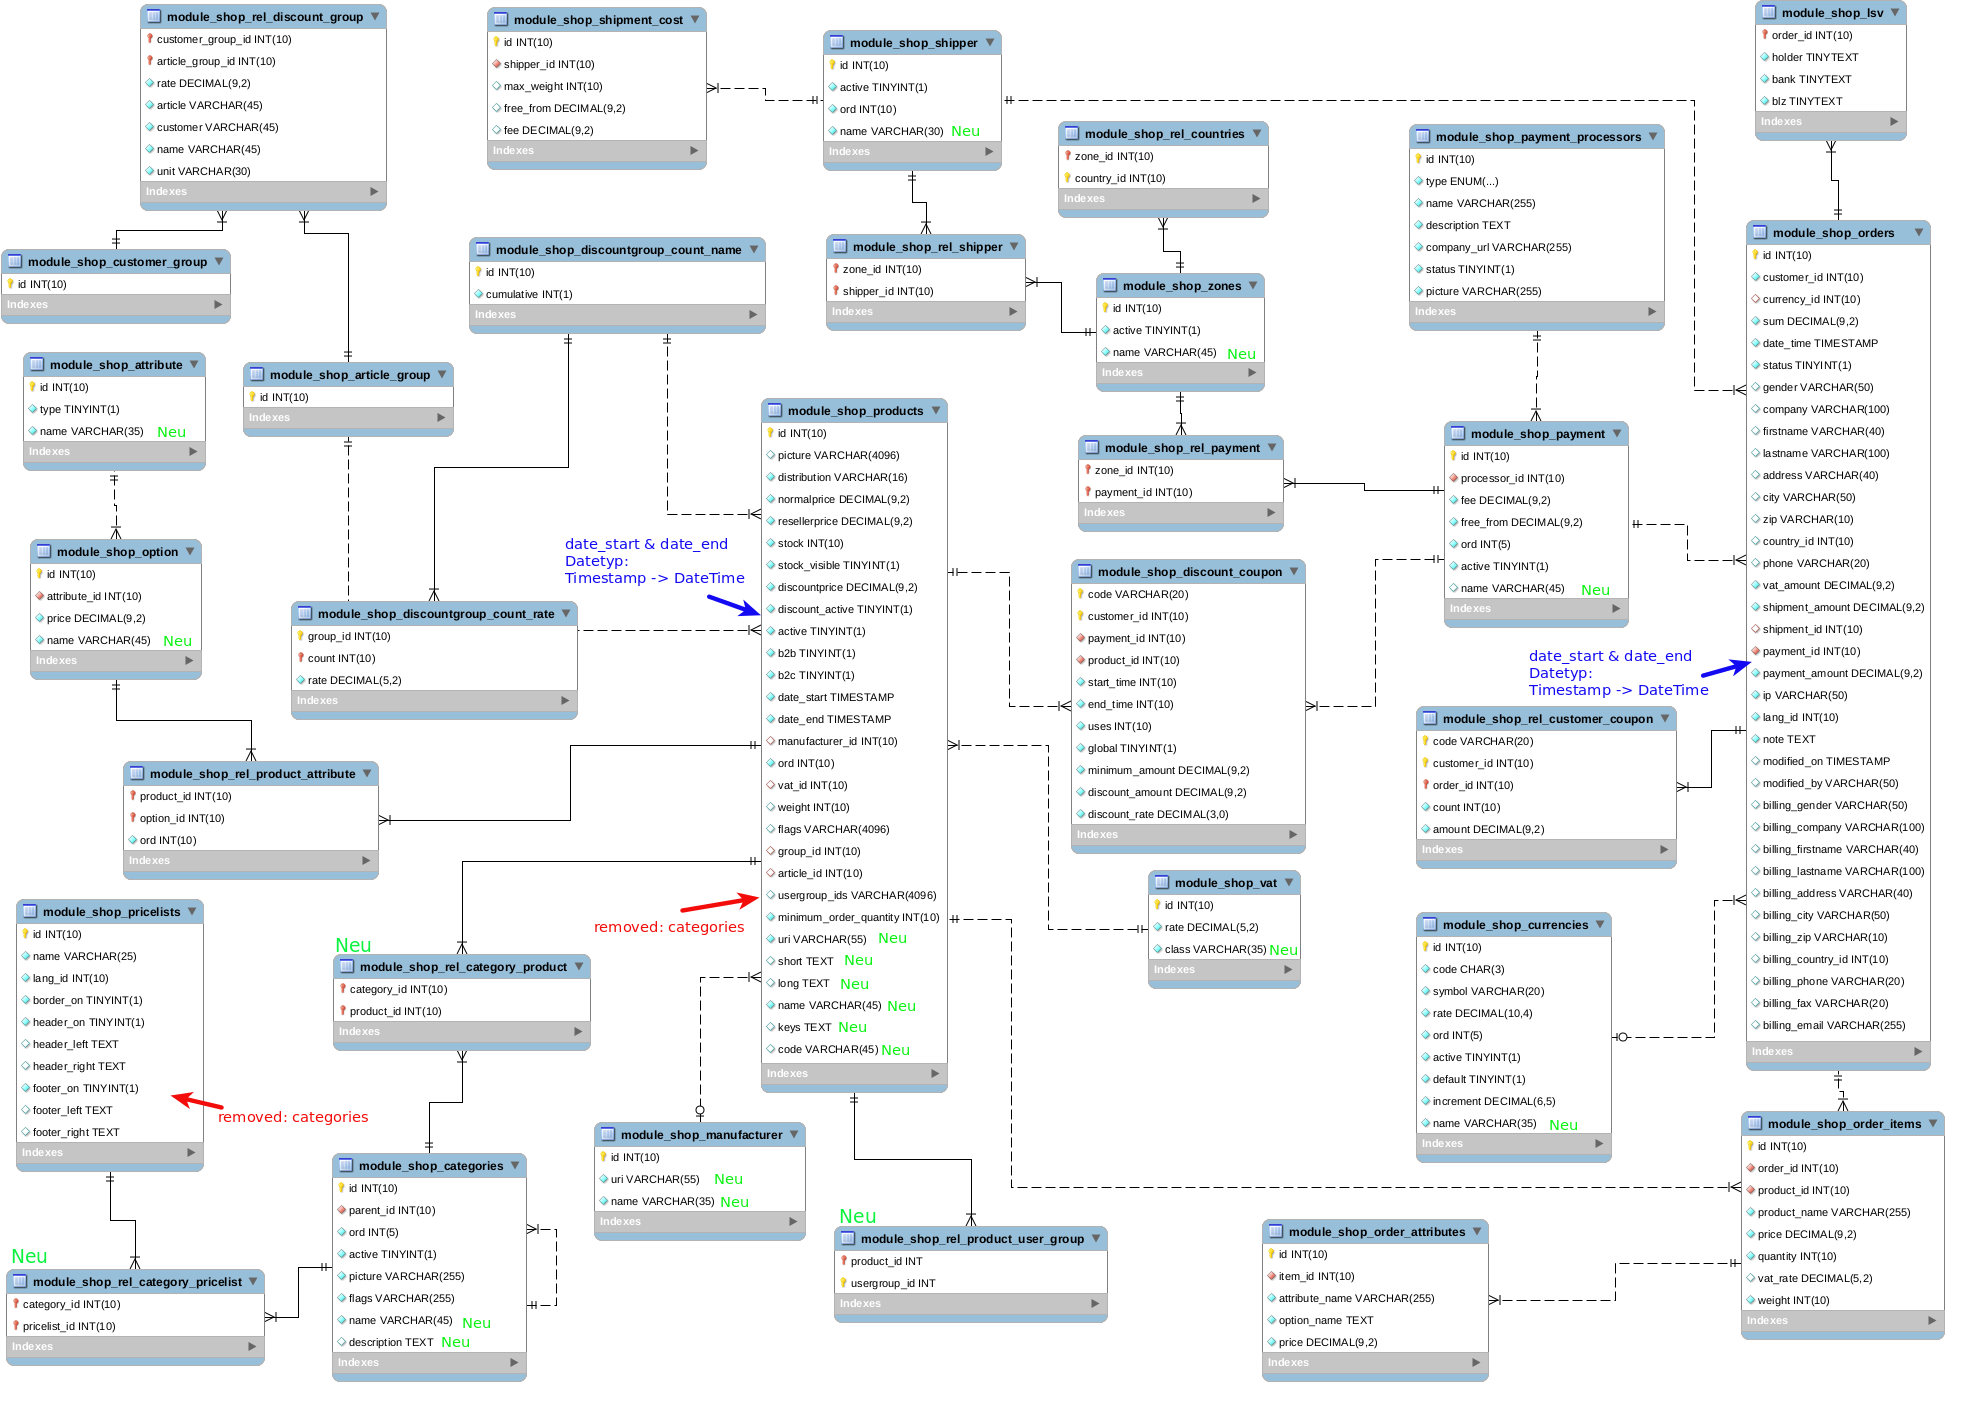
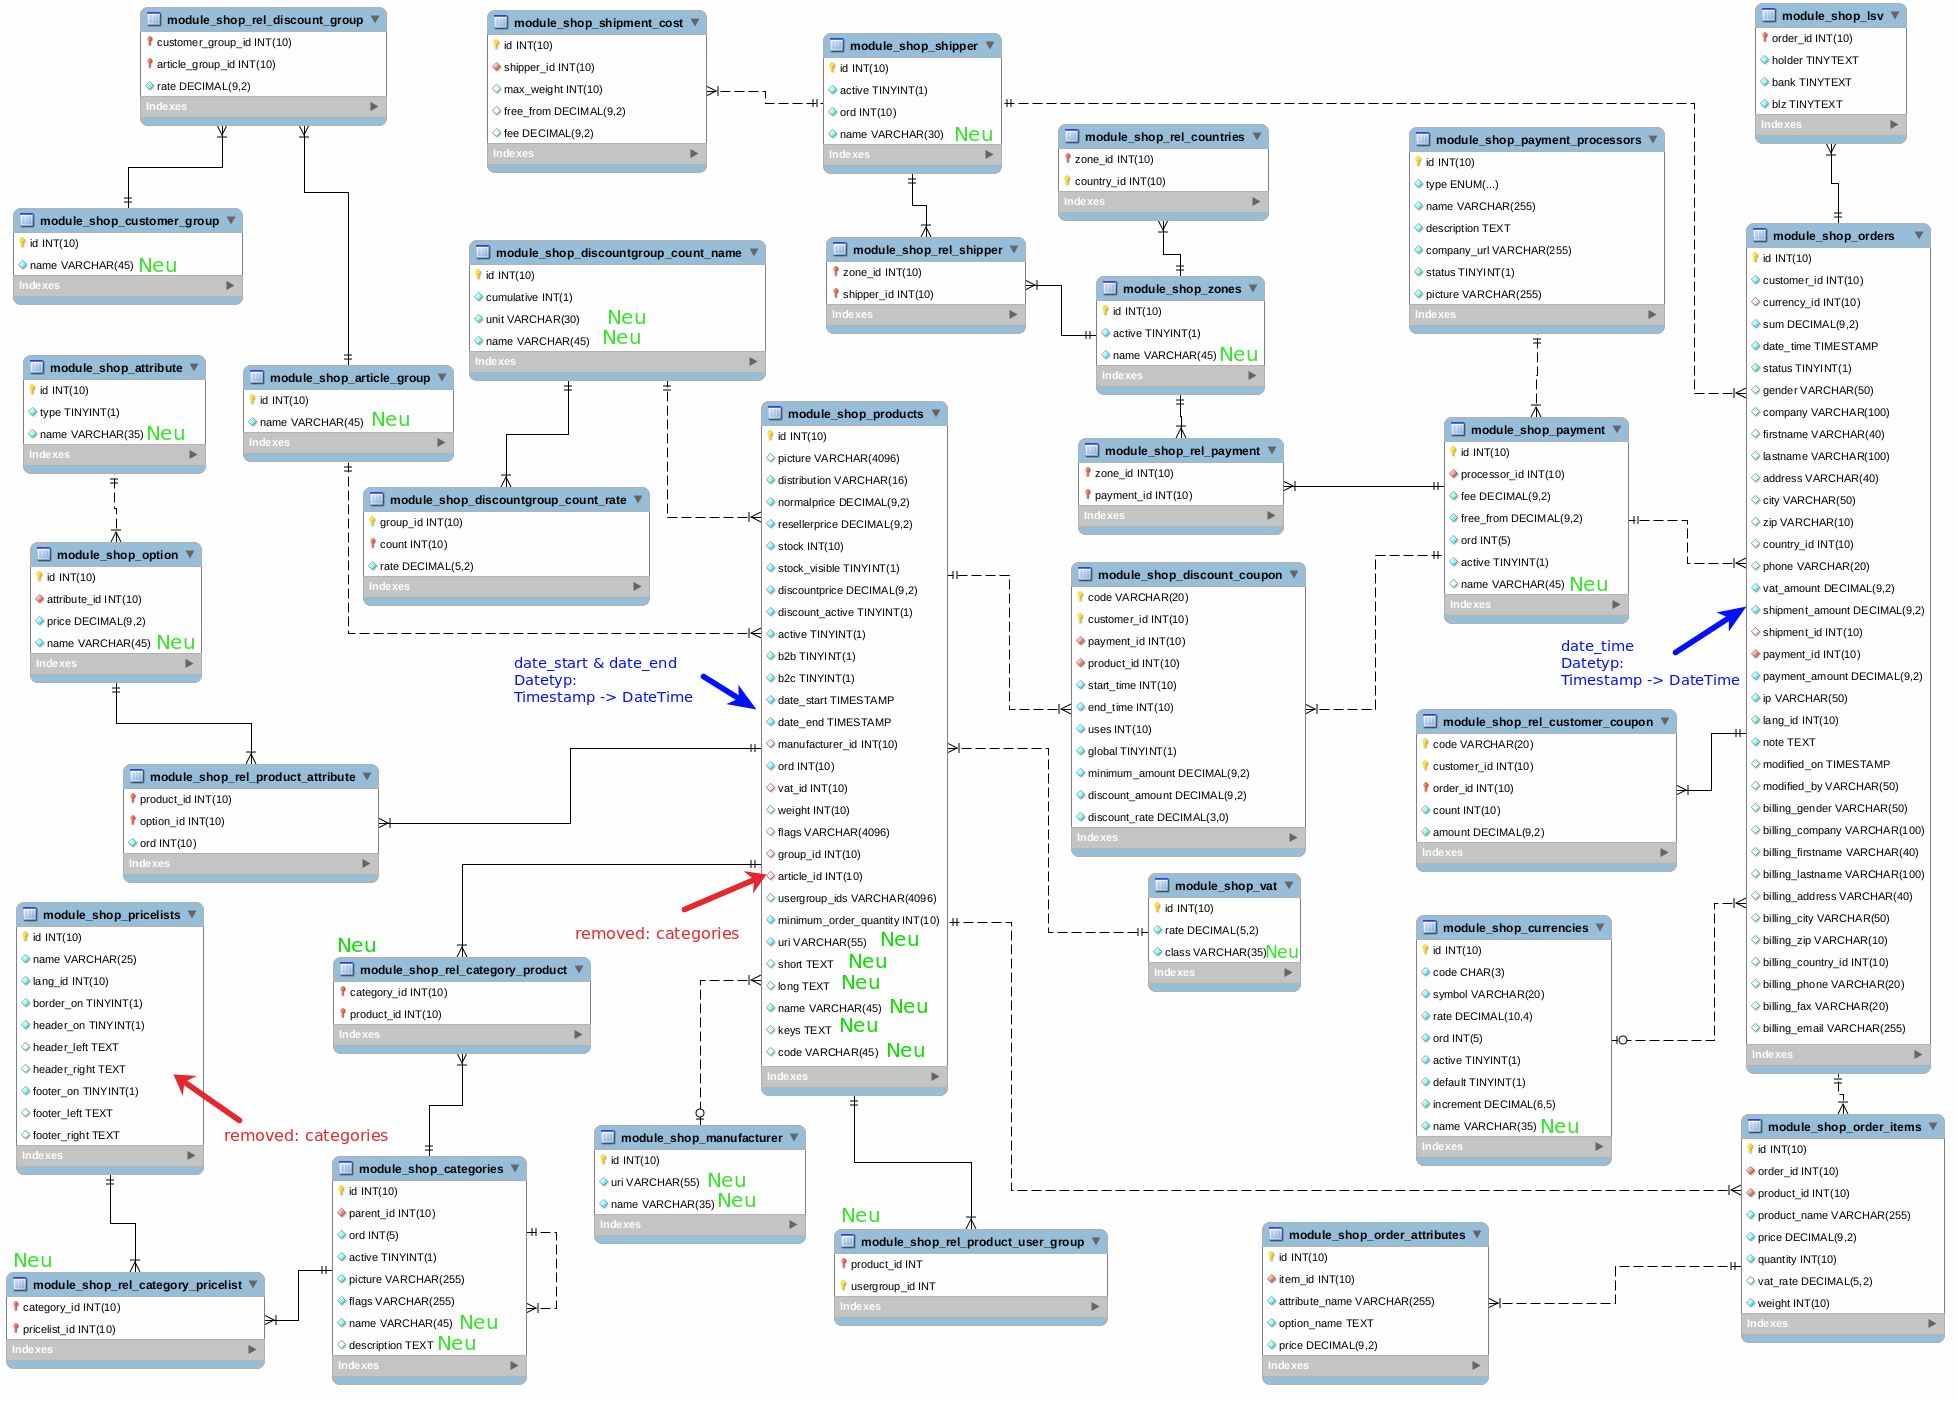
fix(shop): add missing fields and relations (CLX-2260)

diff --git a/modules/Shop/Model/Entity/ArticleGroup.class.php b/modules/Shop/Model/Entity/ArticleGroup.class.php
@@ -52,9 +52,19 @@ class ArticleGroup extends \Cx\Model\Base\EntityBase {
     protected $id;
 
     /**
+     * @var string
+     */
+    protected $name;
+
+    /**
      * @var \Doctrine\Common\Collections\Collection
      */
     protected $relDiscountGroups;
+
+    /**
+     * @var \Doctrine\Common\Collections\Collection
+     */
+    protected $products;
 
     /**
      * Constructor
@@ -72,6 +82,26 @@ class ArticleGroup extends \Cx\Model\Base\EntityBase {
     public function getId()
     {
         return $this->id;
+    }
+
+    /**
+     * Set name
+     *
+     * @param string $name
+     */
+    public function setName($name)
+    {
+        $this->name = $name;
+    }
+
+    /**
+     * Get name
+     *
+     * @return string
+     */
+    public function getName()
+    {
+        return $this->name;
     }
 
     /**
@@ -102,5 +132,35 @@ class ArticleGroup extends \Cx\Model\Base\EntityBase {
     public function getRelDiscountGroups()
     {
         return $this->relDiscountGroups;
+    }
+
+    /**
+     * Add products
+     *
+     * @param \Cx\Modules\Shop\Model\Entity\Products $products
+     */
+    public function addProducts(\Cx\Modules\Shop\Model\Entity\Products $products)
+    {
+        $this->products[] = $products;
+    }
+
+    /**
+     * Remove products
+     *
+     * @param \Cx\Modules\Shop\Model\Entity\Products $products
+     */
+    public function removeProduct(\Cx\Modules\Shop\Model\Entity\Products $product)
+    {
+        $this->products->removeElement($product);
+    }
+
+    /**
+     * Get products
+     *
+     * @return \Doctrine\Common\Collections\Collection
+     */
+    public function getProducts()
+    {
+        return $this->products;
     }
 }

diff --git a/modules/Shop/Model/Entity/DiscountgroupCountName.class.php b/modules/Shop/Model/Entity/DiscountgroupCountName.class.php
@@ -58,6 +58,16 @@ class DiscountgroupCountName extends \Cx\Model\Base\EntityBase {
     protected $cumulative;
 
     /**
+     * @var string
+     */
+    protected $unit;
+
+    /**
+     * @var string
+     */
+    protected $name;
+
+    /**
      * @var \Doctrine\Common\Collections\Collection
      */
     protected $discountgroupCountRates;
@@ -98,6 +108,46 @@ class DiscountgroupCountName extends \Cx\Model\Base\EntityBase {
     public function getCumulative()
     {
         return $this->cumulative;
+    }
+
+    /**
+     * Set unit
+     *
+     * @param string $unit
+     */
+    public function setUnit($unit)
+    {
+        $this->unit = $unit;
+    }
+
+    /**
+     * Get unit
+     *
+     * @return string
+     */
+    public function getUnit()
+    {
+        return $this->unit;
+    }
+
+    /**
+     * Set name
+     *
+     * @param string $name
+     */
+    public function setName($name)
+    {
+        $this->name = $name;
+    }
+
+    /**
+     * Get name
+     *
+     * @return string
+     */
+    public function getName()
+    {
+        return $this->name;
     }
 
     /**

diff --git a/modules/Shop/Model/Entity/CustomerGroup.class.php b/modules/Shop/Model/Entity/CustomerGroup.class.php
@@ -52,6 +52,11 @@ class CustomerGroup extends \Cx\Model\Base\EntityBase {
     protected $id;
 
     /**
+     * @var string
+     */
+    protected $name;
+
+    /**
      * @var \Doctrine\Common\Collections\Collection
      */
     protected $relDiscountGroups;
@@ -72,6 +77,26 @@ class CustomerGroup extends \Cx\Model\Base\EntityBase {
     public function getId()
     {
         return $this->id;
+    }
+
+    /**
+     * Set name
+     *
+     * @param string $name
+     */
+    public function setName($name)
+    {
+        $this->name = $name;
+    }
+
+    /**
+     * Get name
+     *
+     * @return string
+     */
+    public function getName()
+    {
+        return $this->name;
     }
 
     /**
